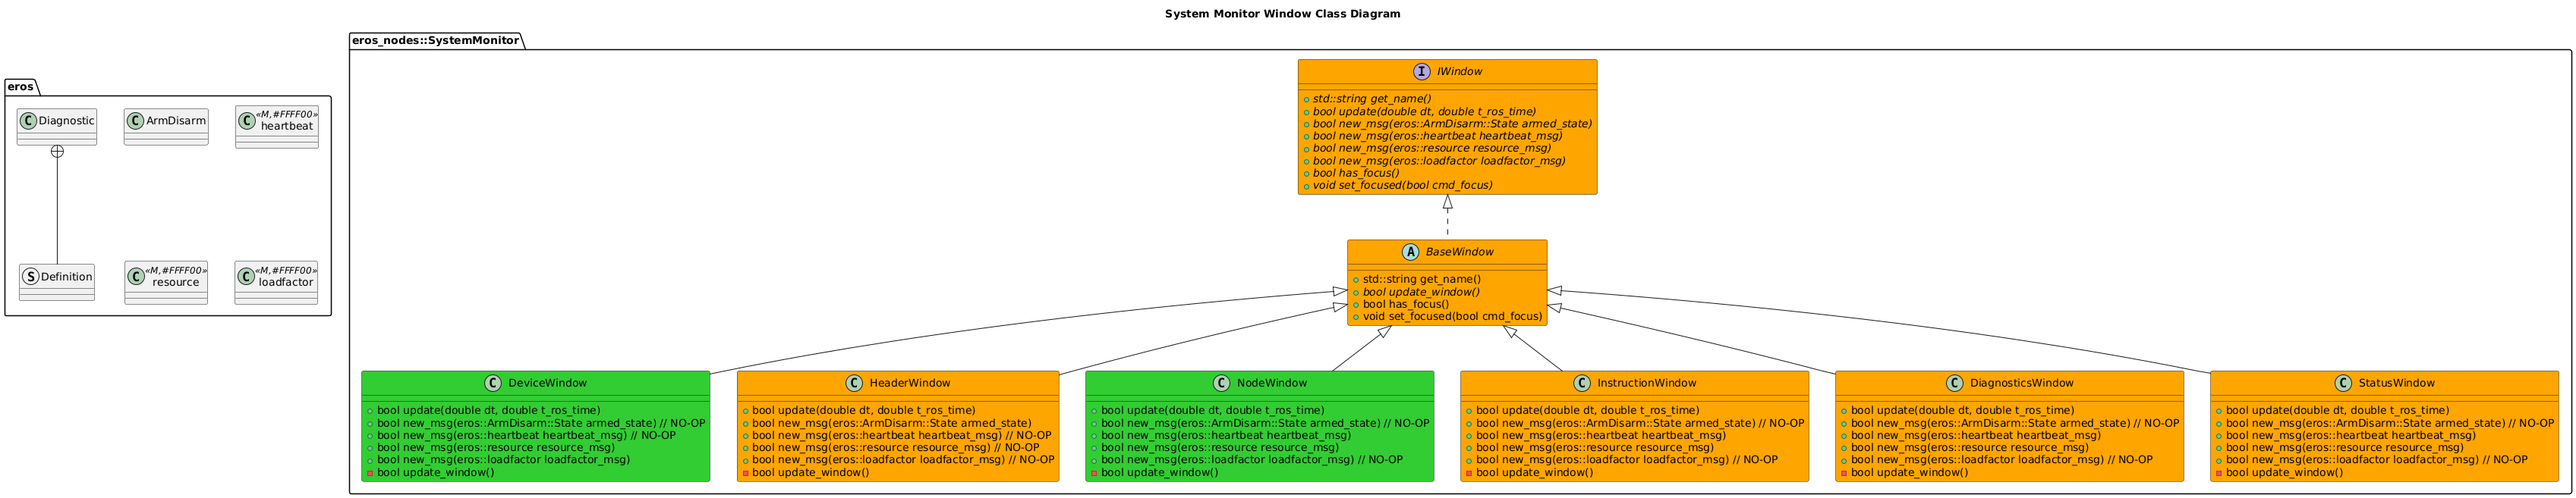
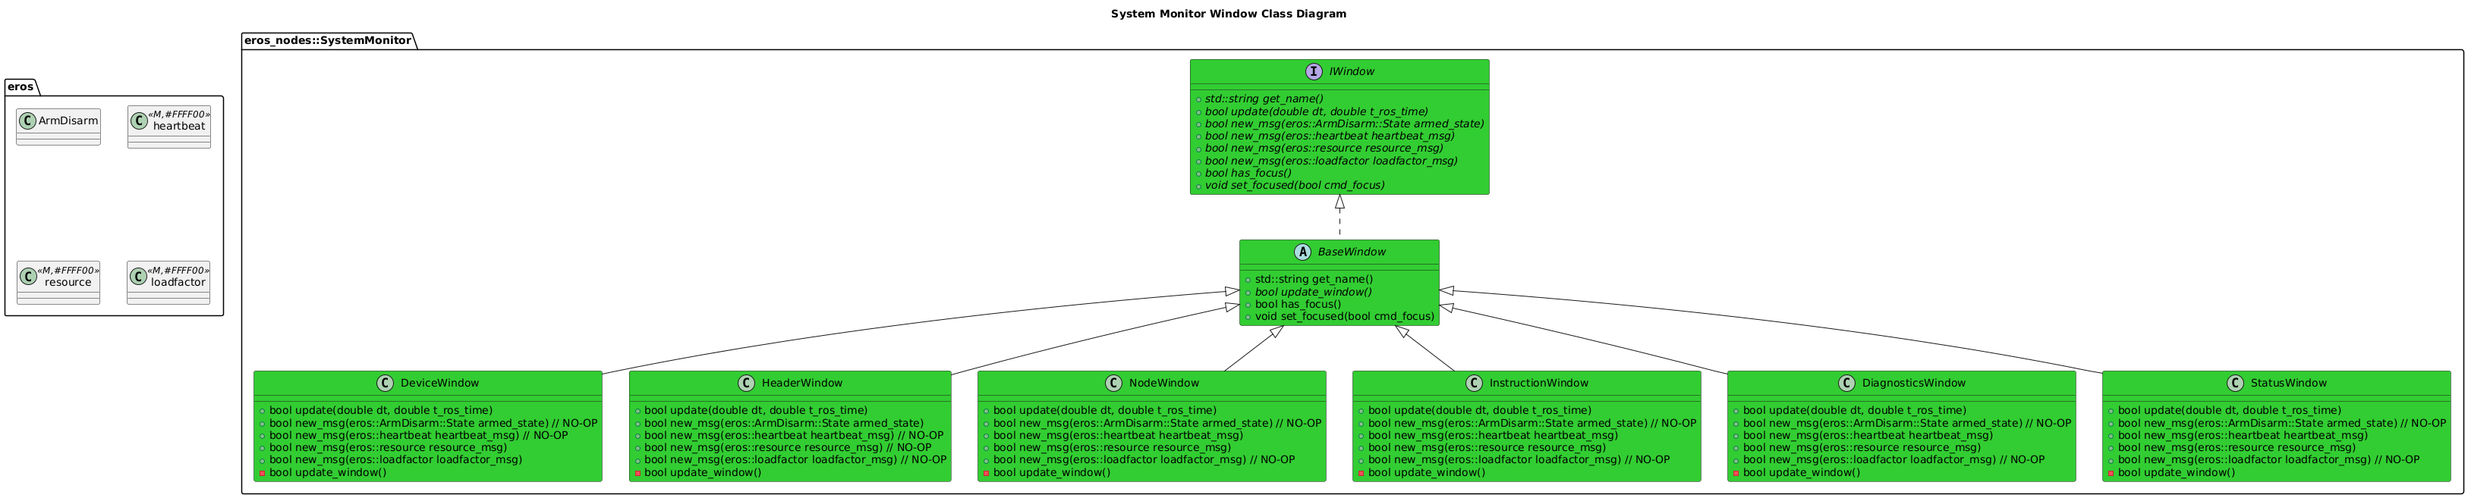
Updates

diff --git a/nodes/SystemMonitor/include/NodeWindow/NodeWindow.h b/nodes/SystemMonitor/include/NodeWindow/NodeWindow.h
@@ -93,12 +93,12 @@ class NodeWindow : public BaseWindow
             std::pair<NodeFieldColumn, Field>(NodeFieldColumn::RAM, Field(" RAM(%) ", 10)));
         node_window_fields.insert(
             std::pair<NodeFieldColumn, Field>(NodeFieldColumn::RX, Field(" Rx ", 6)));
-        ScreenCoordinatePixel coord_pix =
-            convertCoordinate(get_screen_coordinates_perc(), mainwindow_width, mainwindow_height);
-        WINDOW* win = create_newwin(coord_pix.height_pix,
-                                    coord_pix.width_pix,
-                                    coord_pix.start_y_pix,
-                                    coord_pix.start_x_pix);
+        ScreenCoordinatePixel coord_pix = SystemMonitorUtility::convertCoordinate(
+            get_screen_coordinates_perc(), mainwindow_width, mainwindow_height);
+        WINDOW* win = SystemMonitorUtility::create_newwin(coord_pix.height_pix,
+                                                          coord_pix.width_pix,
+                                                          coord_pix.start_y_pix,
+                                                          coord_pix.start_x_pix);
         set_screen_coordinates_pix(coord_pix);
         set_window(win);
 

diff --git a/nodes/SystemMonitor/include/DeviceWindow/DeviceWindow.h b/nodes/SystemMonitor/include/DeviceWindow/DeviceWindow.h
@@ -72,12 +72,12 @@ class DeviceWindow : public BaseWindow
         device_window_fields.insert(
             std::pair<DeviceFieldColumn, Field>(DeviceFieldColumn::RX, Field(" Rx ", 6)));
 
-        ScreenCoordinatePixel coord_pix =
-            convertCoordinate(get_screen_coordinates_perc(), mainwindow_width, mainwindow_height);
-        WINDOW* win = create_newwin(coord_pix.height_pix,
-                                    coord_pix.width_pix,
-                                    coord_pix.start_y_pix,
-                                    coord_pix.start_x_pix);
+        ScreenCoordinatePixel coord_pix = SystemMonitorUtility::convertCoordinate(
+            get_screen_coordinates_perc(), mainwindow_width, mainwindow_height);
+        WINDOW* win = SystemMonitorUtility::create_newwin(coord_pix.height_pix,
+                                                          coord_pix.width_pix,
+                                                          coord_pix.start_y_pix,
+                                                          coord_pix.start_x_pix);
         set_screen_coordinates_pix(coord_pix);
         set_window(win);
         wrefresh(win);

diff --git a/nodes/SystemMonitor/include/HeaderWindow/HeaderWindow.h b/nodes/SystemMonitor/include/HeaderWindow/HeaderWindow.h
@@ -22,12 +22,12 @@ class HeaderWindow : public BaseWindow
                      mainwindow_height,
                      mainwindow_width) {
         logger->log_warn("Initialized Header");
-        ScreenCoordinatePixel coord_pix =
-            convertCoordinate(get_screen_coordinates_perc(), mainwindow_width, mainwindow_height);
-        WINDOW* win = create_newwin(coord_pix.height_pix,
-                                    coord_pix.width_pix,
-                                    coord_pix.start_y_pix,
-                                    coord_pix.start_x_pix);
+        ScreenCoordinatePixel coord_pix = SystemMonitorUtility::convertCoordinate(
+            get_screen_coordinates_perc(), mainwindow_width, mainwindow_height);
+        WINDOW* win = SystemMonitorUtility::create_newwin(coord_pix.height_pix,
+                                                          coord_pix.width_pix,
+                                                          coord_pix.start_y_pix,
+                                                          coord_pix.start_x_pix);
         set_screen_coordinates_pix(coord_pix);
         set_window(win);
         wrefresh(win);

diff --git a/nodes/SystemMonitor/include/DiagnosticsWindow/DiagnosticsWindow.h b/nodes/SystemMonitor/include/DiagnosticsWindow/DiagnosticsWindow.h
@@ -23,12 +23,12 @@ class DiagnosticsWindow : public BaseWindow
                      logger,
                      mainwindow_height,
                      mainwindow_width) {
-        ScreenCoordinatePixel coord_pix =
-            convertCoordinate(get_screen_coordinates_perc(), mainwindow_width, mainwindow_height);
-        WINDOW* win = create_newwin(coord_pix.height_pix,
-                                    coord_pix.width_pix,
-                                    coord_pix.start_y_pix,
-                                    coord_pix.start_x_pix);
+        ScreenCoordinatePixel coord_pix = SystemMonitorUtility::convertCoordinate(
+            get_screen_coordinates_perc(), mainwindow_width, mainwindow_height);
+        WINDOW* win = SystemMonitorUtility::create_newwin(coord_pix.height_pix,
+                                                          coord_pix.width_pix,
+                                                          coord_pix.start_y_pix,
+                                                          coord_pix.start_x_pix);
         set_screen_coordinates_pix(coord_pix);
         set_window(win);
         wrefresh(win);

diff --git a/nodes/SystemMonitor/include/MessageWindow/MessageWindow.h b/nodes/SystemMonitor/include/MessageWindow/MessageWindow.h
@@ -23,12 +23,12 @@ class MessageWindow : public BaseWindow
                      logger,
                      mainwindow_height,
                      mainwindow_width) {
-        ScreenCoordinatePixel coord_pix =
-            convertCoordinate(get_screen_coordinates_perc(), mainwindow_width, mainwindow_height);
-        WINDOW* win = create_newwin(coord_pix.height_pix,
-                                    coord_pix.width_pix,
-                                    coord_pix.start_y_pix,
-                                    coord_pix.start_x_pix);
+        ScreenCoordinatePixel coord_pix = SystemMonitorUtility::convertCoordinate(
+            get_screen_coordinates_perc(), mainwindow_width, mainwindow_height);
+        WINDOW* win = SystemMonitorUtility::create_newwin(coord_pix.height_pix,
+                                                          coord_pix.width_pix,
+                                                          coord_pix.start_y_pix,
+                                                          coord_pix.start_x_pix);
         set_screen_coordinates_pix(coord_pix);
         set_window(win);
         wrefresh(win);

diff --git a/nodes/SystemMonitor/include/StatusWindow/StatusWindow.h b/nodes/SystemMonitor/include/StatusWindow/StatusWindow.h
@@ -21,12 +21,12 @@ class StatusWindow : public BaseWindow
                      logger,
                      mainwindow_height,
                      mainwindow_width) {
-        ScreenCoordinatePixel coord_pix =
-            convertCoordinate(get_screen_coordinates_perc(), mainwindow_width, mainwindow_height);
-        WINDOW* win = create_newwin(coord_pix.height_pix,
-                                    coord_pix.width_pix,
-                                    coord_pix.start_y_pix,
-                                    coord_pix.start_x_pix);
+        ScreenCoordinatePixel coord_pix = SystemMonitorUtility::convertCoordinate(
+            get_screen_coordinates_perc(), mainwindow_width, mainwindow_height);
+        WINDOW* win = SystemMonitorUtility::create_newwin(coord_pix.height_pix,
+                                                          coord_pix.width_pix,
+                                                          coord_pix.start_y_pix,
+                                                          coord_pix.start_x_pix);
         set_screen_coordinates_pix(coord_pix);
         set_window(win);
         wrefresh(win);

diff --git a/nodes/SystemMonitor/include/InstructionWindow/InstructionWindow.h b/nodes/SystemMonitor/include/InstructionWindow/InstructionWindow.h
@@ -30,12 +30,12 @@ class InstructionWindow : public BaseWindow
                      mainwindow_height,
                      mainwindow_width),
           command_pub(command_pub) {
-        ScreenCoordinatePixel coord_pix =
-            convertCoordinate(get_screen_coordinates_perc(), mainwindow_width, mainwindow_height);
-        WINDOW* win = create_newwin(coord_pix.height_pix,
-                                    coord_pix.width_pix,
-                                    coord_pix.start_y_pix,
-                                    coord_pix.start_x_pix);
+        ScreenCoordinatePixel coord_pix = SystemMonitorUtility::convertCoordinate(
+            get_screen_coordinates_perc(), mainwindow_width, mainwindow_height);
+        WINDOW* win = SystemMonitorUtility::create_newwin(coord_pix.height_pix,
+                                                          coord_pix.width_pix,
+                                                          coord_pix.start_y_pix,
+                                                          coord_pix.start_x_pix);
         set_screen_coordinates_pix(coord_pix);
         set_window(win);
 

diff --git a/nodes/SystemMonitor/include/BaseWindow.h b/nodes/SystemMonitor/include/BaseWindow.h
@@ -13,7 +13,7 @@
 #include <string>
 
 #include "IWindow.h"
-#include "SystemMonitorUtilities.h"
+#include "SystemMonitorUtility.h"
 #include "WindowDefinitions.h"
 #include "ros/ros.h"
 namespace eros_nodes::SystemMonitor {

diff --git a/nodes/SystemMonitor/include/WindowDefinitions.h b/nodes/SystemMonitor/include/WindowDefinitions.h
@@ -1,6 +1,8 @@
 /*! \file WindowDefinitions.h
  */
 #pragma once
+#include <eros/eROS_Definitions.h>
+
 #include <string>
 //! Namespace for SystemMonitor
 namespace eros_nodes::SystemMonitor {

diff --git a/nodes/SystemMonitor/include/SystemMonitorUtility.h b/nodes/SystemMonitor/include/SystemMonitorUtility.h
@@ -1,4 +1,6 @@
 #pragma once
+#include <curses.h>
+
 #include "WindowDefinitions.h"
 namespace eros_nodes::SystemMonitor {
 class SystemMonitorUtility

diff --git a/nodes/SystemMonitor/doc/SystemMonitorNode.md b/nodes/SystemMonitor/doc/SystemMonitorNode.md
@@ -1,11 +1,12 @@
 # System Monitor Node
+For more information on the System Monitor, see [System Monitor Feature](../../../doc/Features/SystemMonitor/SystemMonitor.md)
 
 # Software Architecture
 ## Class Diagrams
 ![](../../../doc/output/Legend.png)
+![](output/SystemMonitorDefinitionClassDiagram.png)
+![](output/SystemMonitorUtilityClassDiagram.png)
 ![](output/SystemMonitorWindowClassDiagram.png)
 
 ## Sequence Diagrams
 ![](output/SystemMonitorWindowSequenceDiagram.png)
-
-![](media/SystemMonitor/SystemMonitor_Image1.png)

diff --git a/doc/Features/Diagnostics/Diagnostics.md b/doc/Features/Diagnostics/Diagnostics.md
@@ -58,7 +58,7 @@ More information can be found at [eros::Diagnostic Class Reference](https://dgit
 ### Sequence Diagrams
 ![](../../../include/eros_diagnostic/doc/output/DiagnosticManagerSequenceDiagram.png)
 
-## [Diagnostic Node](DiagnosticNode.md)
+## [Diagnostic Node](../../../nodes/DiagnosticNode/doc/DiagnosticNode.md)
 A node that listes to all diagnostics and aggregates them.
 
 ## Examples
